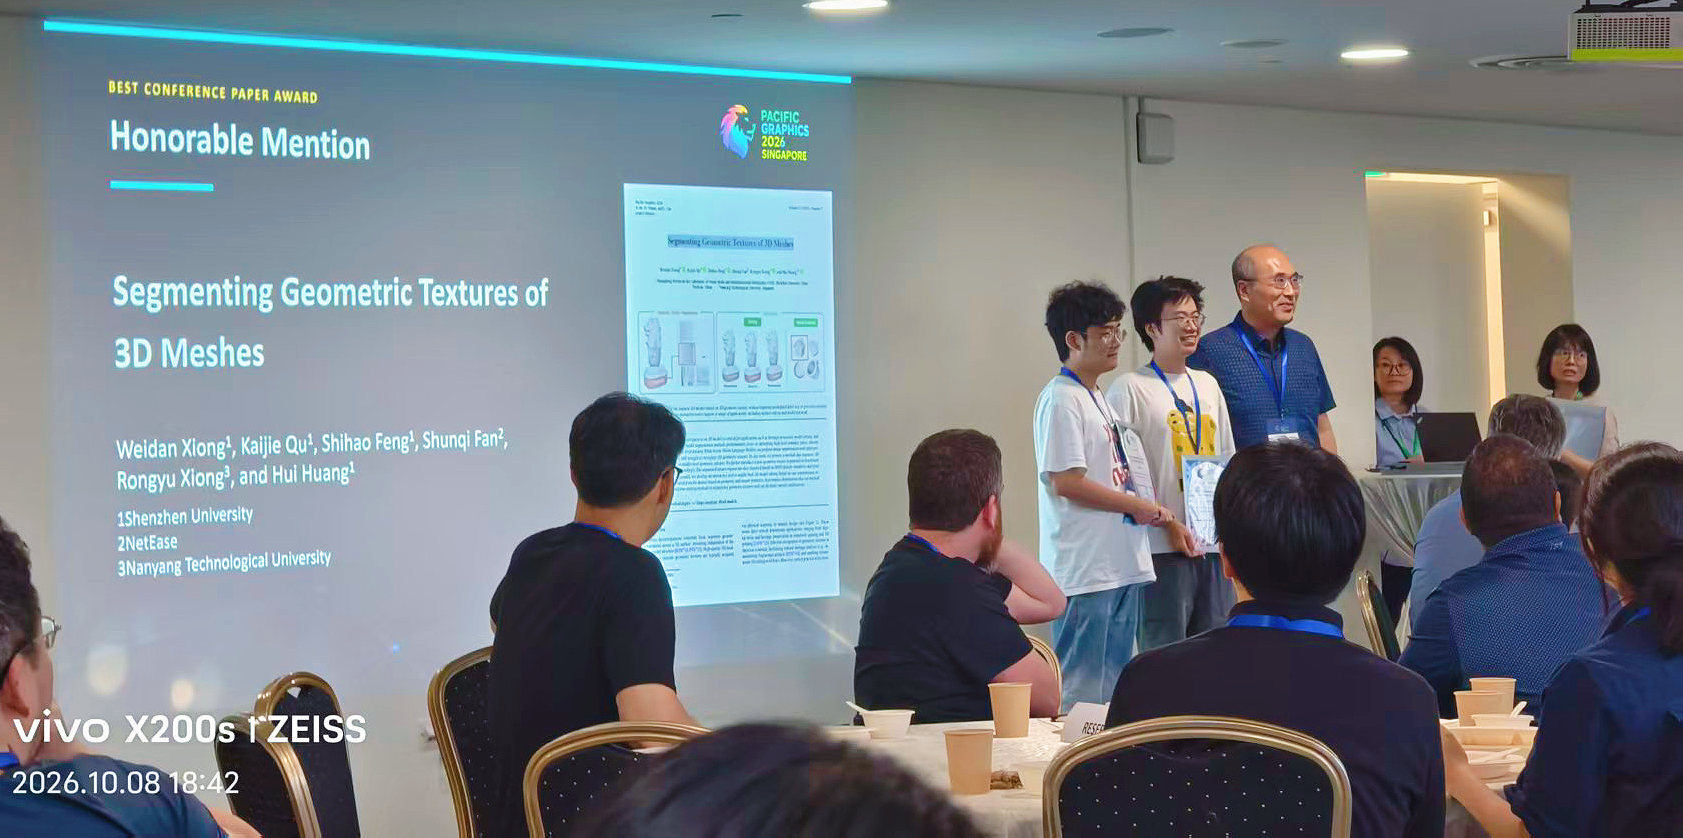
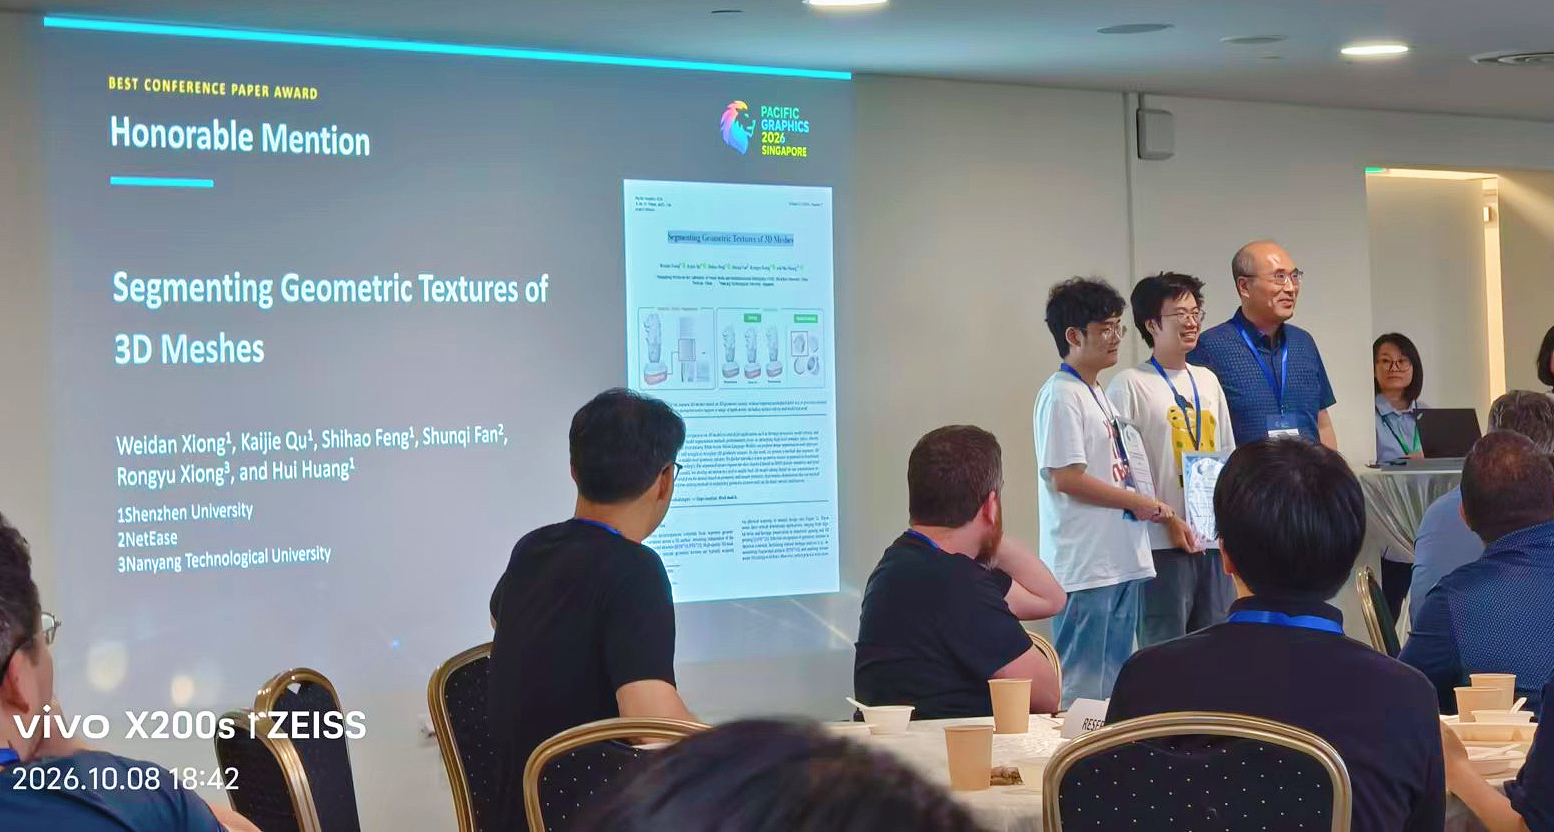
rebuilding site Tue Nov 10 20:33:22 CST 2026

diff --git a/index.html b/index.html
@@ -576,7 +576,7 @@
     
     <h1>Biography</h1>
 
-    <p>I am currently an Assistant Professor within <a href="http://vcc.szu.edu.cn/" target="_blank">VCC</a>, Shenzhen University. Before that, I was an Associate Researcher in Guangdong Laboratory of Artificial Intelligence and Digital Economy (SZ), a Research Fellow in HP-NTU Digital Manufacturing Corporate Lab under the supervision of <a href="https://personal.ntu.edu.sg/asjmzheng/" target="_blank">Prof. Jianmin Zheng</a>, and a R&amp;D engineer in Tencent (SSP offer).</p>
+    <p>I am currently an Assistant Professor within <a href="http://vcc.szu.edu.cn/" target="_blank">VCC</a>, Shenzhen University. Before that, I was an Associate Researcher in Guangdong Laboratory of Artificial Intelligence and Digital Economy (SZ), a Research Fellow in HP-NTU Digital Manufacturing Corporate Lab (Distinction Research Award) under the supervision of <a href="https://personal.ntu.edu.sg/asjmzheng/" target="_blank">Prof. Jianmin Zheng</a>, and a R&amp;D engineer in Tencent (&ldquo;Tech Elite&rdquo; Program).</p>
 
 <p>I obtained my Ph.D. degree in Electronic and Computer Engineering from The Hong Kong University of Science and Technology, under the supervision of <a href="https://cse.hkust.edu.hk/~psander/cv/pvs-cv.html" target="_blank">Prof. Pedro V. Sander</a> and <a href="https://ieda.ust.hk/dfaculty/ajay/" target="_blank">Prof. Ajay Joneja</a>. And I received my B. Engineering. in Software Engineering from Huazhong University of Science and Technology.</p>
 
@@ -744,7 +744,7 @@
 
 
 
-<a class="btn btn-outline-primary my-1 mr-1 btn-sm" href="https://vcc.tech/research/2026/GeoTex" target="_blank" rel="noopener">
+<a class="btn btn-outline-primary my-1 mr-1 btn-sm" href="http://arxiv.org/abs/2611.08897" target="_blank" rel="noopener">
   PDF
 </a>
 
@@ -881,6 +881,14 @@
 
 
 
+
+  
+  
+    
+  
+<a class="btn btn-outline-primary my-1 mr-1 btn-sm" href="https://youtu.be/dP9WtVq6tP8?si=FgxFdapZV_R6urw6" target="_blank" rel="noopener">
+  Video
+</a>
 
 
 
@@ -2797,7 +2805,16 @@
     
     
   <a data-fancybox="gallery-gallery" href="/home/gallery/gallery/13.jpg" >
-  <img src="/home/gallery/gallery/13_hu62327a18dbc8439f528a1a7e1c193e46_1540448_0x190_resize_q90_lanczos.jpg" alt="">
+  <img src="/home/gallery/gallery/13_hu14cebd0092d74e20488d4b7366ab2f54_1533501_0x190_resize_q90_lanczos.jpg" alt="">
+  </a>
+  
+    
+    
+    
+    
+    
+  <a data-fancybox="gallery-gallery" href="/home/gallery/gallery/14.jpg" >
+  <img src="/home/gallery/gallery/14_hua3e3770081d41920b9f3ea3cf2e14c7a_8832941_0x190_resize_q90_lanczos.jpg" alt="">
   </a>
   
 
@@ -2928,9 +2945,11 @@
       
     </div>
     <div class="col-12 col-lg-8">
-      <p><b>Sevices</b>:</p>
+      <p><b>Services</b>:</p>
 
 <ul>
+<li><p>CVM 2027, Program Committee member.</p></li>
+
 <li><p>SIGGRAPH Asia 2026, Technical Communications and Posters Committee member, session chair.</p></li>
 
 <li><p>Pacific Graphics 2026, International Program Committee member.</p></li>
@@ -2939,7 +2958,7 @@
 
 <li><p>CVM 2023, session chair.</p></li>
 
-<li><p>Reviewer of ACM TOG、SIGGRAPH Asia、IEEE TVCG、CAD、IEEE CG&amp;A、The Visual Computer、Pacific Graphics.</p></li>
+<li><p>Reviewer of ACM TOG、SIGGRAPH Asia、IEEE TVCG、CAD、Frontiers of Computer Science、Pacific Graphics、Eurographics、IEEE CG&amp;A、C&amp;G、The Visual Computer.</p></li>
 </ul>
 
 <p><b>Hobbies</b>:      Diving, Oil painting, Jazz dance, bamboo flute.</p>

diff --git a/authors/admin/index.html b/authors/admin/index.html
@@ -517,7 +517,7 @@
     
     
 
-    <p>I am currently an Assistant Professor within <a href="http://vcc.szu.edu.cn/" target="_blank">VCC</a>, Shenzhen University. Before that, I was an Associate Researcher in Guangdong Laboratory of Artificial Intelligence and Digital Economy (SZ), a Research Fellow in HP-NTU Digital Manufacturing Corporate Lab under the supervision of <a href="https://personal.ntu.edu.sg/asjmzheng/" target="_blank">Prof. Jianmin Zheng</a>, and a R&amp;D engineer in Tencent (SSP offer).</p>
+    <p>I am currently an Assistant Professor within <a href="http://vcc.szu.edu.cn/" target="_blank">VCC</a>, Shenzhen University. Before that, I was an Associate Researcher in Guangdong Laboratory of Artificial Intelligence and Digital Economy (SZ), a Research Fellow in HP-NTU Digital Manufacturing Corporate Lab (Distinction Research Award) under the supervision of <a href="https://personal.ntu.edu.sg/asjmzheng/" target="_blank">Prof. Jianmin Zheng</a>, and a R&amp;D engineer in Tencent (&ldquo;Tech Elite&rdquo; Program).</p>
 
 <p>I obtained my Ph.D. degree in Electronic and Computer Engineering from The Hong Kong University of Science and Technology, under the supervision of <a href="https://cse.hkust.edu.hk/~psander/cv/pvs-cv.html" target="_blank">Prof. Pedro V. Sander</a> and <a href="https://ieda.ust.hk/dfaculty/ajay/" target="_blank">Prof. Ajay Joneja</a>. And I received my B. Engineering. in Software Engineering from Huazhong University of Science and Technology.</p>
 

diff --git a/project/geotex/index.html b/project/geotex/index.html
@@ -621,7 +621,7 @@
 
 
 
-<a class="btn btn-outline-primary my-1 mr-1" href="https://vcc.tech/research/2026/GeoTex" target="_blank" rel="noopener">
+<a class="btn btn-outline-primary my-1 mr-1" href="http://arxiv.org/abs/2611.08897" target="_blank" rel="noopener">
   PDF
 </a>
 

diff --git a/project/texproxy/index.html b/project/texproxy/index.html
@@ -637,6 +637,14 @@
 
 
 
+  
+  
+    
+  
+<a class="btn btn-outline-primary my-1 mr-1" href="https://youtu.be/dP9WtVq6tP8?si=FgxFdapZV_R6urw6" target="_blank" rel="noopener">
+  Video
+</a>
+
 
 
 
